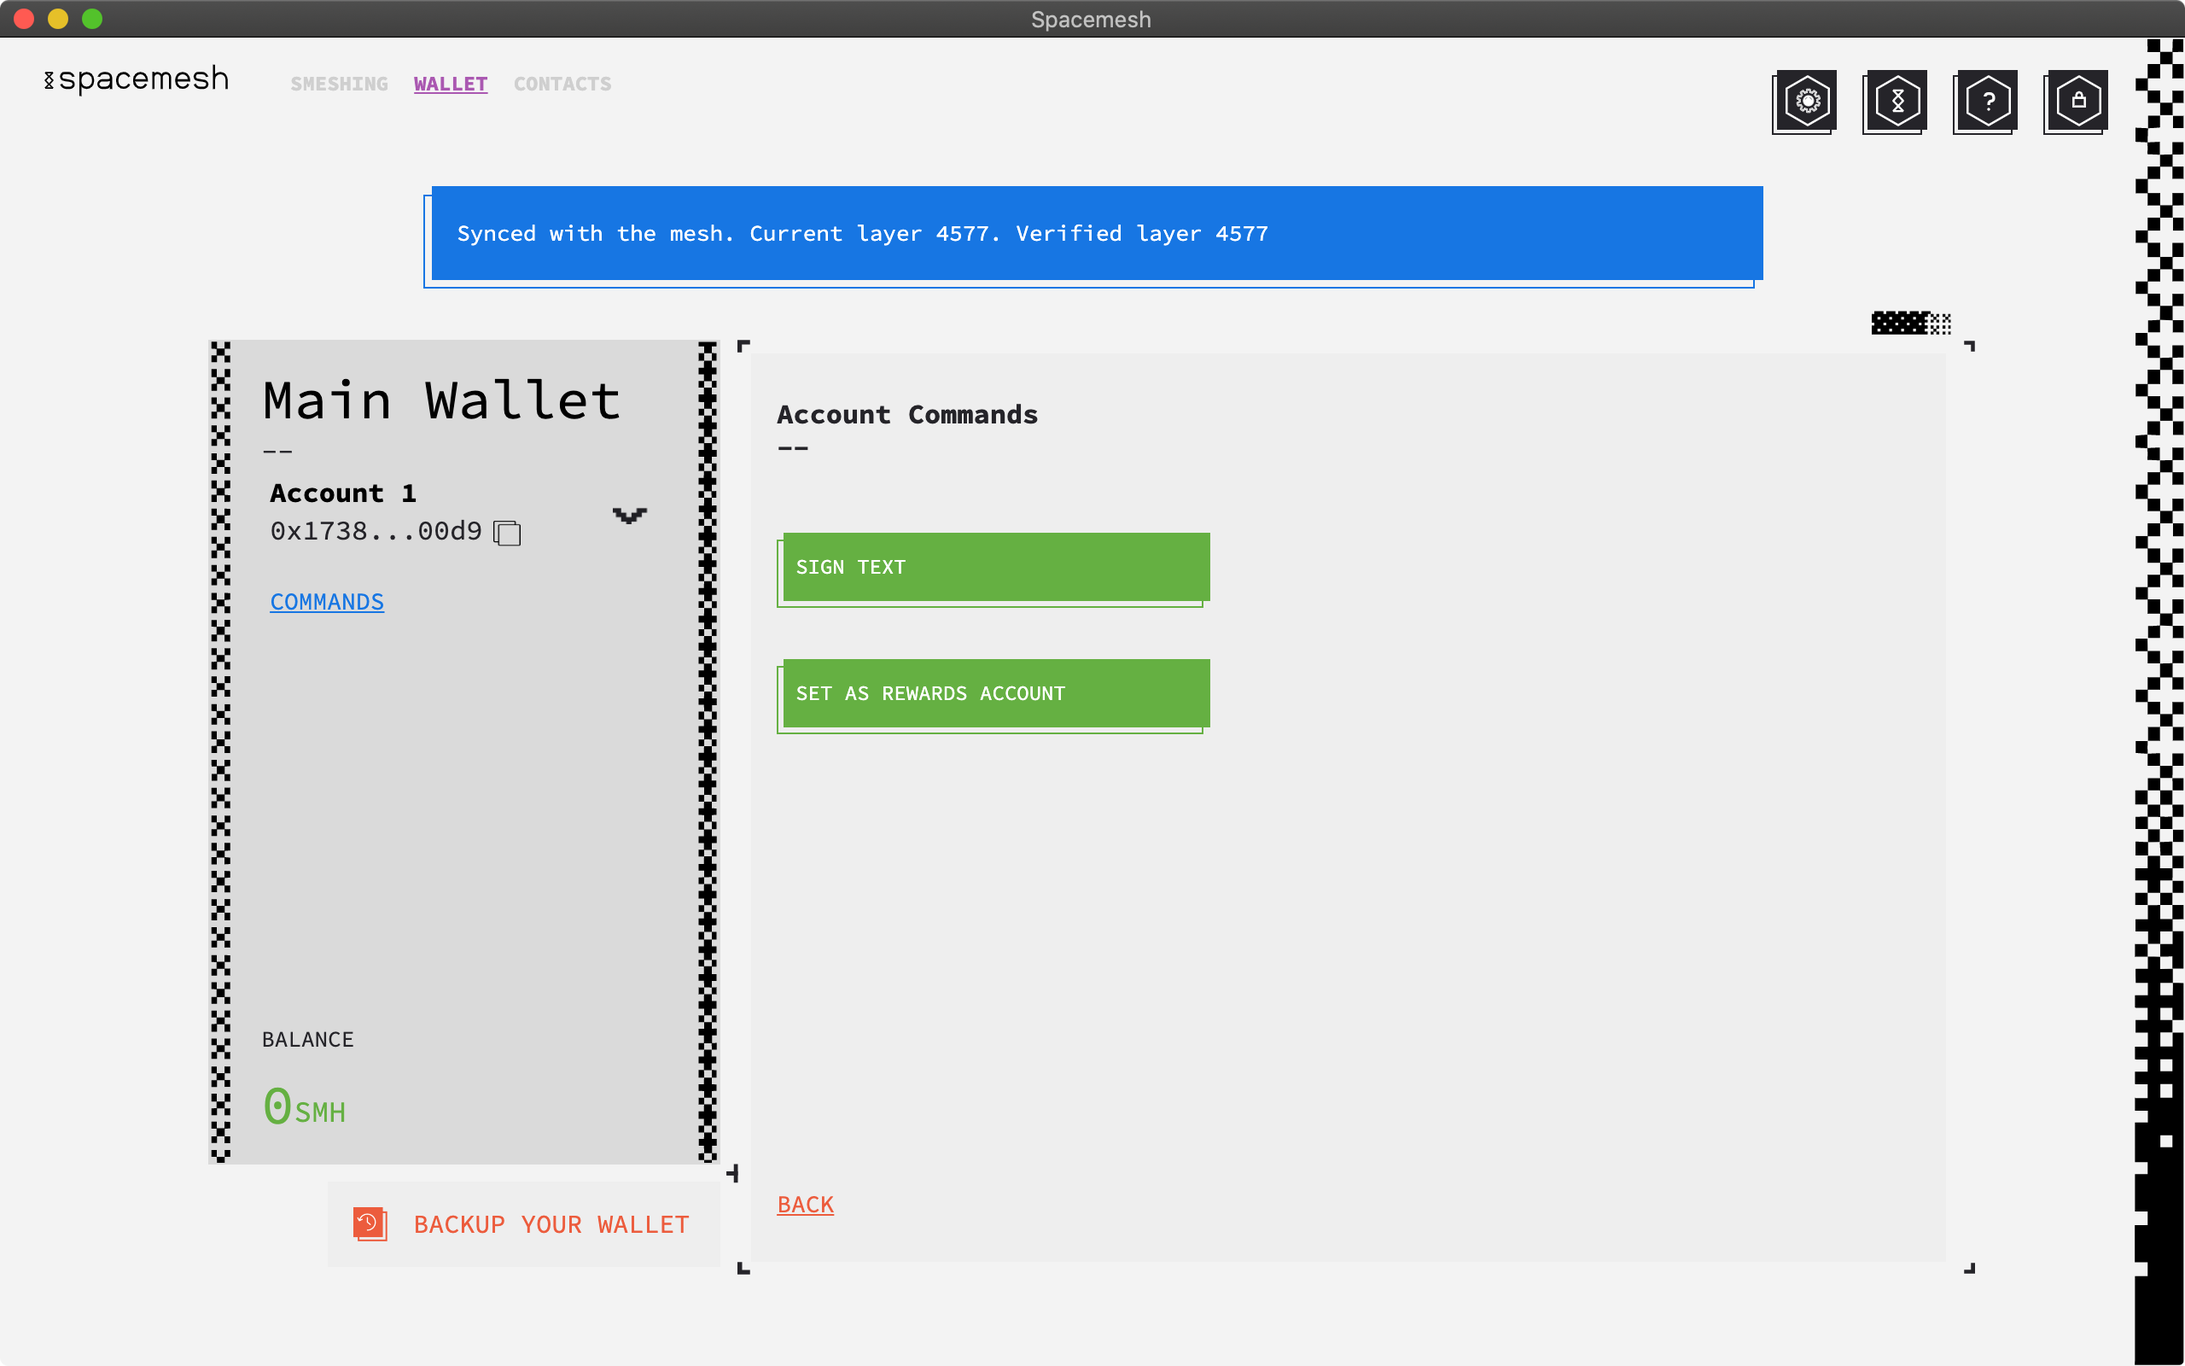
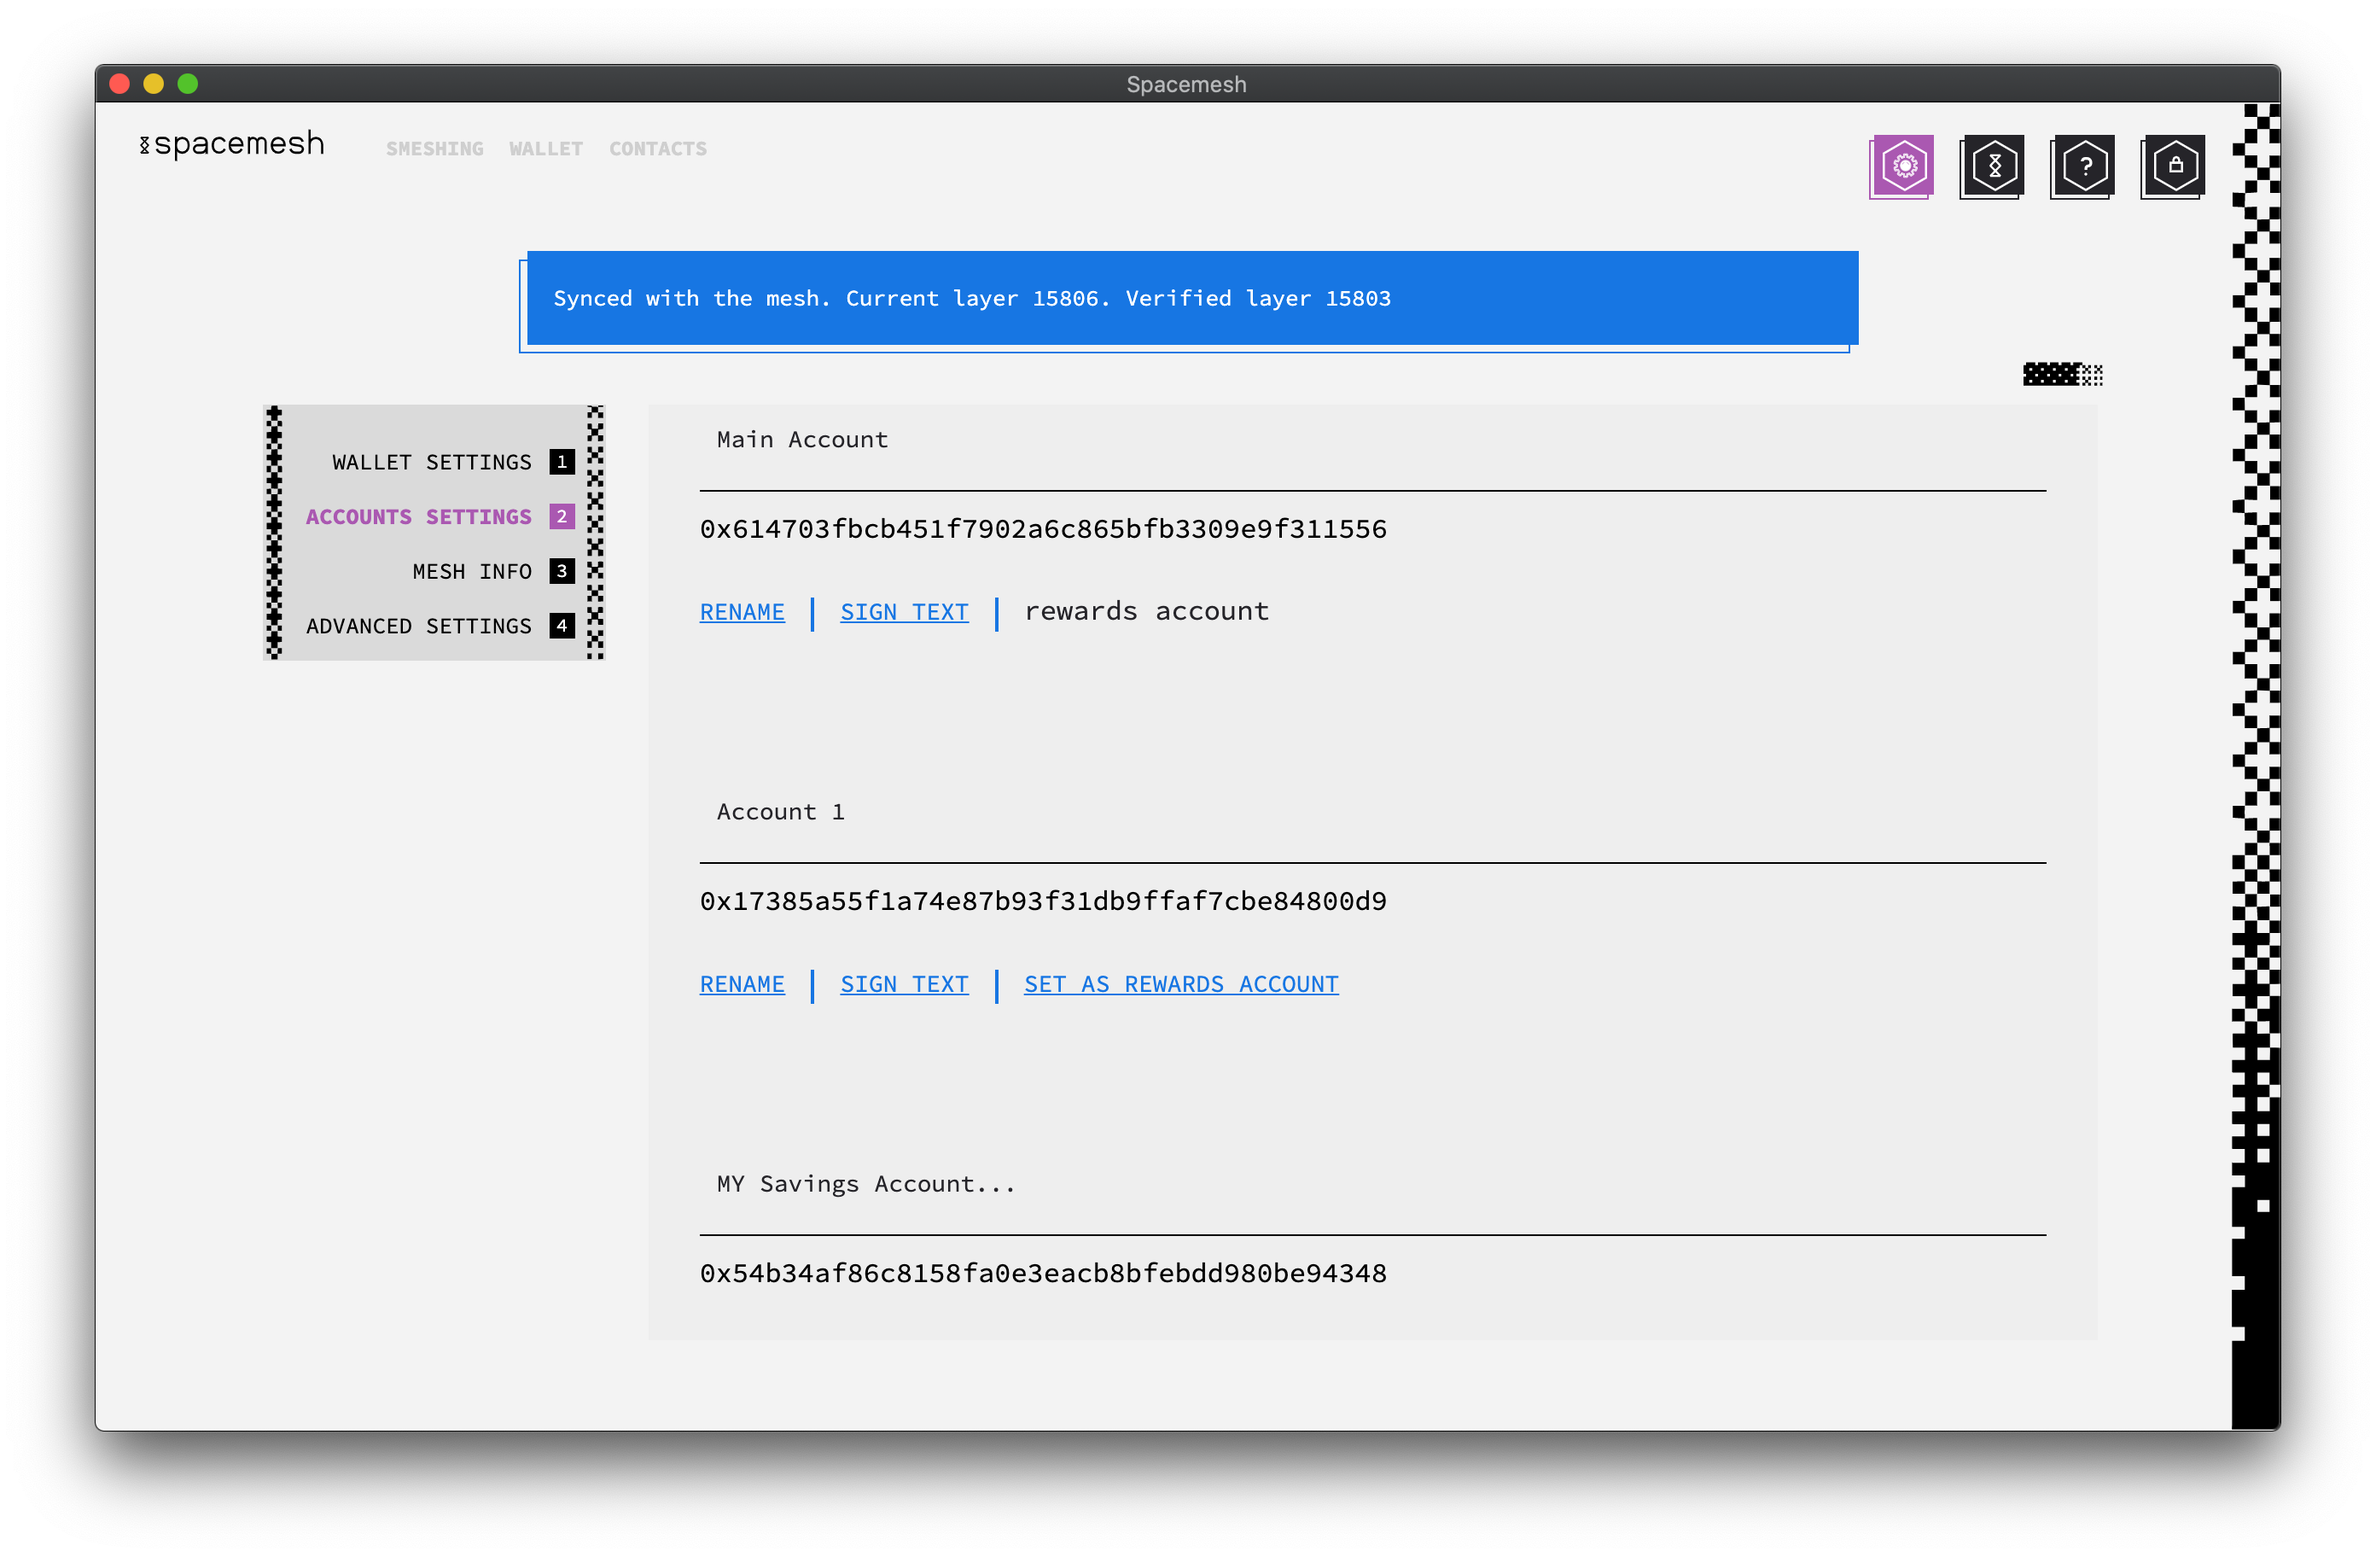
general updates and changes

Changed region(s): [[0.0, 0.0, 1.0, 1.0], [0.4375, 0.625, 0.5625, 0.6562], [0.8438, 0.2188, 0.9062, 0.25]]

diff --git a/wallet.md b/wallet.md
@@ -103,15 +103,5 @@ To switch between accounts, click the account drop-down icon in your Wallet disp
 
 Select the account you want to use from the drop-down menu.
 
-## Wallet Commands
-
-Notice the blue `COMMANDS` button underneath your accounts in the wallet screen. Clicking on it will open the Account Commands screen. There you will see two green buttons: `SIGN TEXT` and `SET AS REWARDS ACCOUNT`
-
-![](images/v1.0/account_commands.png)
-
-`SET AS REWARDS ACCOUNT` will allow you to select which of your accounts receives smeshing rewards.
-
-To learn how to use the `SIGN TEXT` feature, [go here](sign_text.md).
-
 ## Additional Guides
 - To learn more about the Testnet, follow a guide from one of the available [Testnet guides](all.md).

diff --git a/all.md b/all.md
@@ -6,14 +6,14 @@
 - [Setting up the App](guide/setup.md)
 - [Viewing Smesher status](guide/status.md)
 - [Viewing transactions and rewards](wallet_log.md)
-- [Using your Wallet](wallet.md)
+- [Using your wallet](wallet.md)
 - [Sending Smesh](send_coin.md)
 - [Getting Smesh](get_coin.md)
 - [Backing up your wallet](backup.md)
 - [Configuring your network](netconfig.md)
 - [Updating the App](update.md)
 - [Creating a contact](add_contact.md)
-- [Signing text](sign_text.md)
+- [Working with your accounts](account_commands.md)
 
 
 ## Additional resources

diff --git a/account_commands.md b/account_commands.md
@@ -1,3 +1,11 @@
+## Working with Your Accounts
+
+Go to the `SETTINGS` screen and click on `ACCOUNT SETTINGS` in the navigation box on the left.  
+
+Notice the blue buttons underneath each of your accounts. All of them will have `RENAME` and `SIGN TEXT`. If you have more than one account, the ones that are not currently your rewards account will have an additional `SET AS REWARDS ACCOUNT` command.
+
+![](images/v1.0/account_commands.png)
+
 ## Signing Text
 
 `SIGN TEXT` allows you to sign a text message such as your full name or email address.
